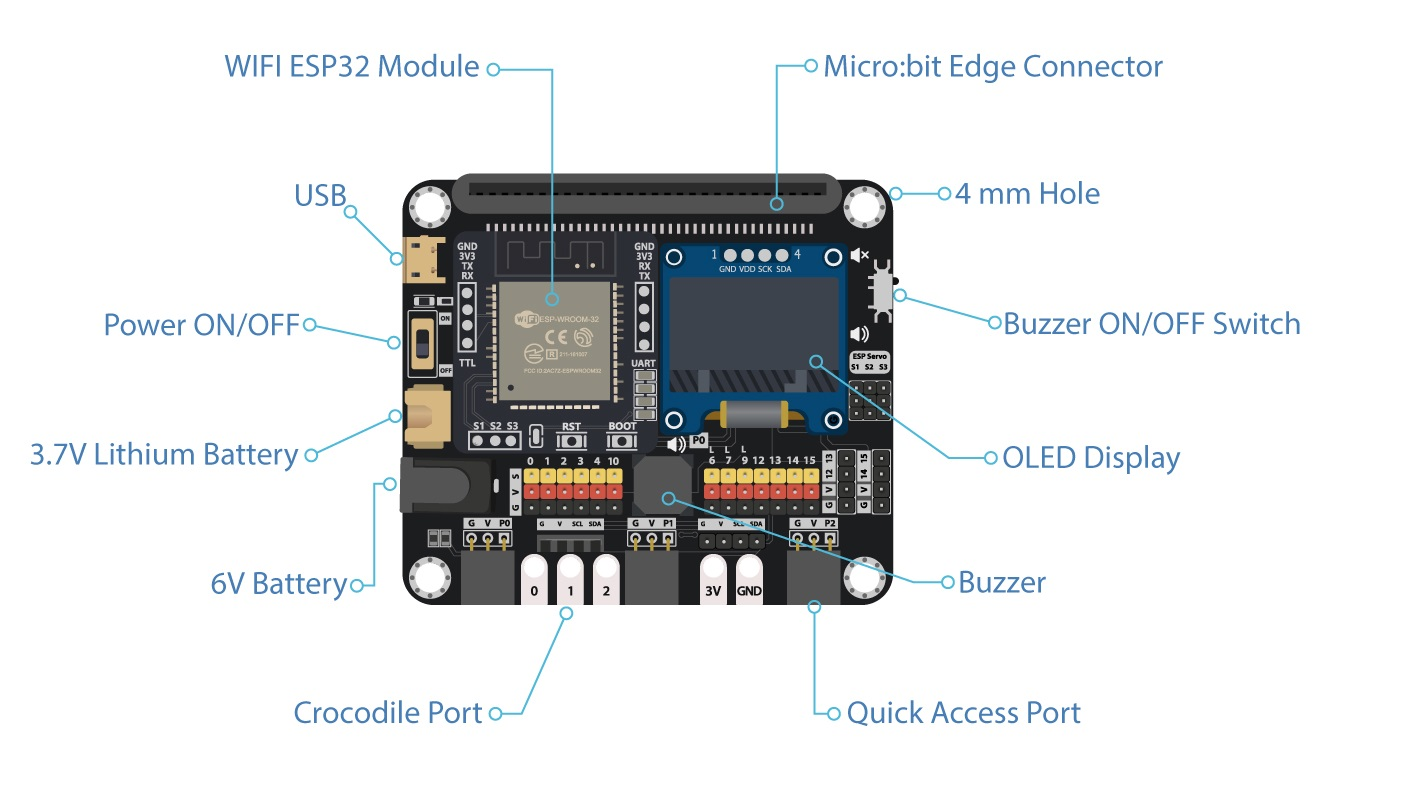
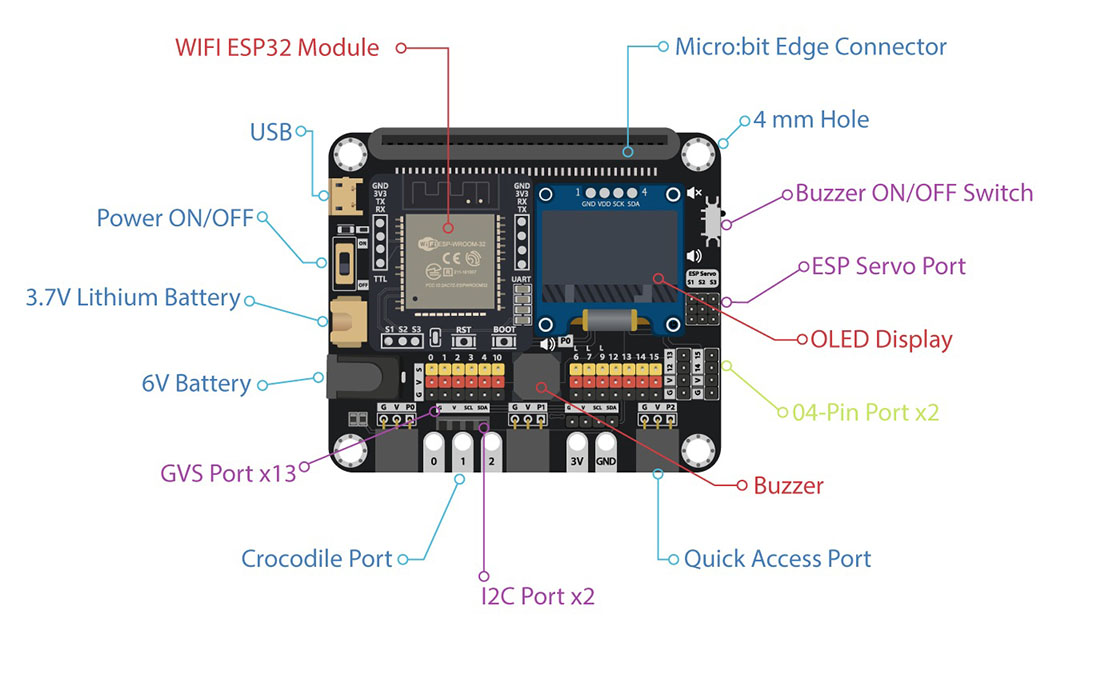
update name and pic

diff --git a/docs/smartcity/chapter4.md b/docs/smartcity/chapter4.md
@@ -1,4 +1,4 @@
-# Chapter 4: Control micro:bit by IFTTT Services
+# Chapter 4: Cloud Control micro:bit by IFTTT Services
 
 In this chapter , you will learn how to use trigger (other services) to implement action (micro:bit) by IFTTT. Below are the commonly used examples of services that can trigger micro:bit in IFTTT. <BR><P>
 ![auto_fit](images/Ch4/Ch4_des1.png)<P>
@@ -65,7 +65,7 @@ Attention: Please be aware that the **P** is in capital letter.
 
 ![auto_fit](images/Ch4/Ch4_2_p3.png)<P>
 
-<H3><U>Advanced Usage: Command with value</U></H3>
+<H3><U>Advanced Usage(with value):</U></H3>
 
 If you want to control the module with value, you can use the another block which contain `value` variable.<BR>
 If `Wan command` “PinValue” is received, white LED will be turned on with the given intensity `value`.<P>
@@ -94,7 +94,7 @@ Open your browser , go to [https://ifttt.com/](https://ifttt.com/). Register you
 On the top right menu, click “Create” > “Applets”<BR><P>
 ![auto_fit](images/Ch4/Ch4_ifttt2.png)<P>
 
-<span id="subtitle" >Step 3: Create the trigger of Applets</span><BR><P>
+<span id="subtitle" >Step 3: Create the <u>trigger</u> of Applets</span><BR><P>
 Create a trigger for the applet<BR><P>
 * Select “This” > Choose service “Date & Time”
 * Choose trigger “Every day at” 
@@ -118,7 +118,7 @@ The light will be turned on at 6pm every day!<BR><P>
 ![auto_fit](images/Ch4/Ch4_ifttt5.png)<P>
 <P>
 <HR>
-<H3><U>Advanced Usage: command with value</U></H3>
+<H3><U>Advanced Usage(with value):</U></H3>
 
 <span id="subtitle" >Step 1: Create the applet</span><BR><P>
 You can send WAN command with value in IFTTT. In this example, click “That” to select the action<BR><P>
@@ -134,15 +134,6 @@ Create an action for the applet
  
  
 
-<span id="subtitle" >Step 3:Review the configuration</span><BR><P>
-Review your applet, then click “Finish ”. <BR><P>
-
-
-<span id="subtitle" >Step 4:Ready to use</span><BR><P>
-After, the applet connection has been created it will show “connected”. <BR><P>
-The light will be turned on at 6pm every day!<BR><P>
-![auto_fit](images/Ch4/Ch4_2_ifttt3.png)<P>
-
 
 ## Result
 <HR>
@@ -156,6 +147,7 @@ After connected to WiFi, micro:bit will connect to control server and keep liste
 * The LED on P0 will be turned on.
 ![auto_fit](images/Ch4/Ch4_2_result.png)<P>
 
+<H3><U>Advanced Usage(with value):</U></H3>
 
 When change the applet to contain value version, it will have an additional variable `value` included
 * Every day at 6pm, clock will trigger IFTTT to send out micro:bit WAN command “PinValue” (with value “600”)

diff --git a/docs/smartcity/chapter3.md b/docs/smartcity/chapter3.md
@@ -1,4 +1,4 @@
-# Chapter 3: Control micro:bit by App Inventor 2
+# Chapter 3: Direct Control micro:bit by App Inventor 2
 
 App inventor 2 is a blocks-based programming tool, which help beginners to build fully functional app in Android device. The interface is graphical base and support drag and drop operations. It consists of different components, such as button, slider, date pickers, image, camera, sensors including Accelerometer and connectivity to web, etc. The app can be exported or published to Play store for our daily life.<BR><P>
 ![auto_fit](images/Ch3/Ch3_des1.png)<P>

diff --git a/docs/smartcity/2_IOTbit.md b/docs/smartcity/2_IOTbit.md
@@ -51,9 +51,11 @@ Hole diameter: 4mm<BR>
 
 ## Pinout Information
 <H3>Pinout Diagram:</H3><BR>
-![auto_fit](images/2_IOT/iot_image03.png)<P>
+![auto_fit](images/2_IOT/iot_image03.jpg)<P>
 <H3>Port Diagram:</H3><BR>
 ![auto_fit](images/2_IOT/iot_image006.jpg)
+
+<H3>Pinout Table</H3>
 
 | |Mirco:bit || IoT:bit | <span style="text-align: center;width: 100%">Extra Port</span> |
 --|--|--|--|--|
